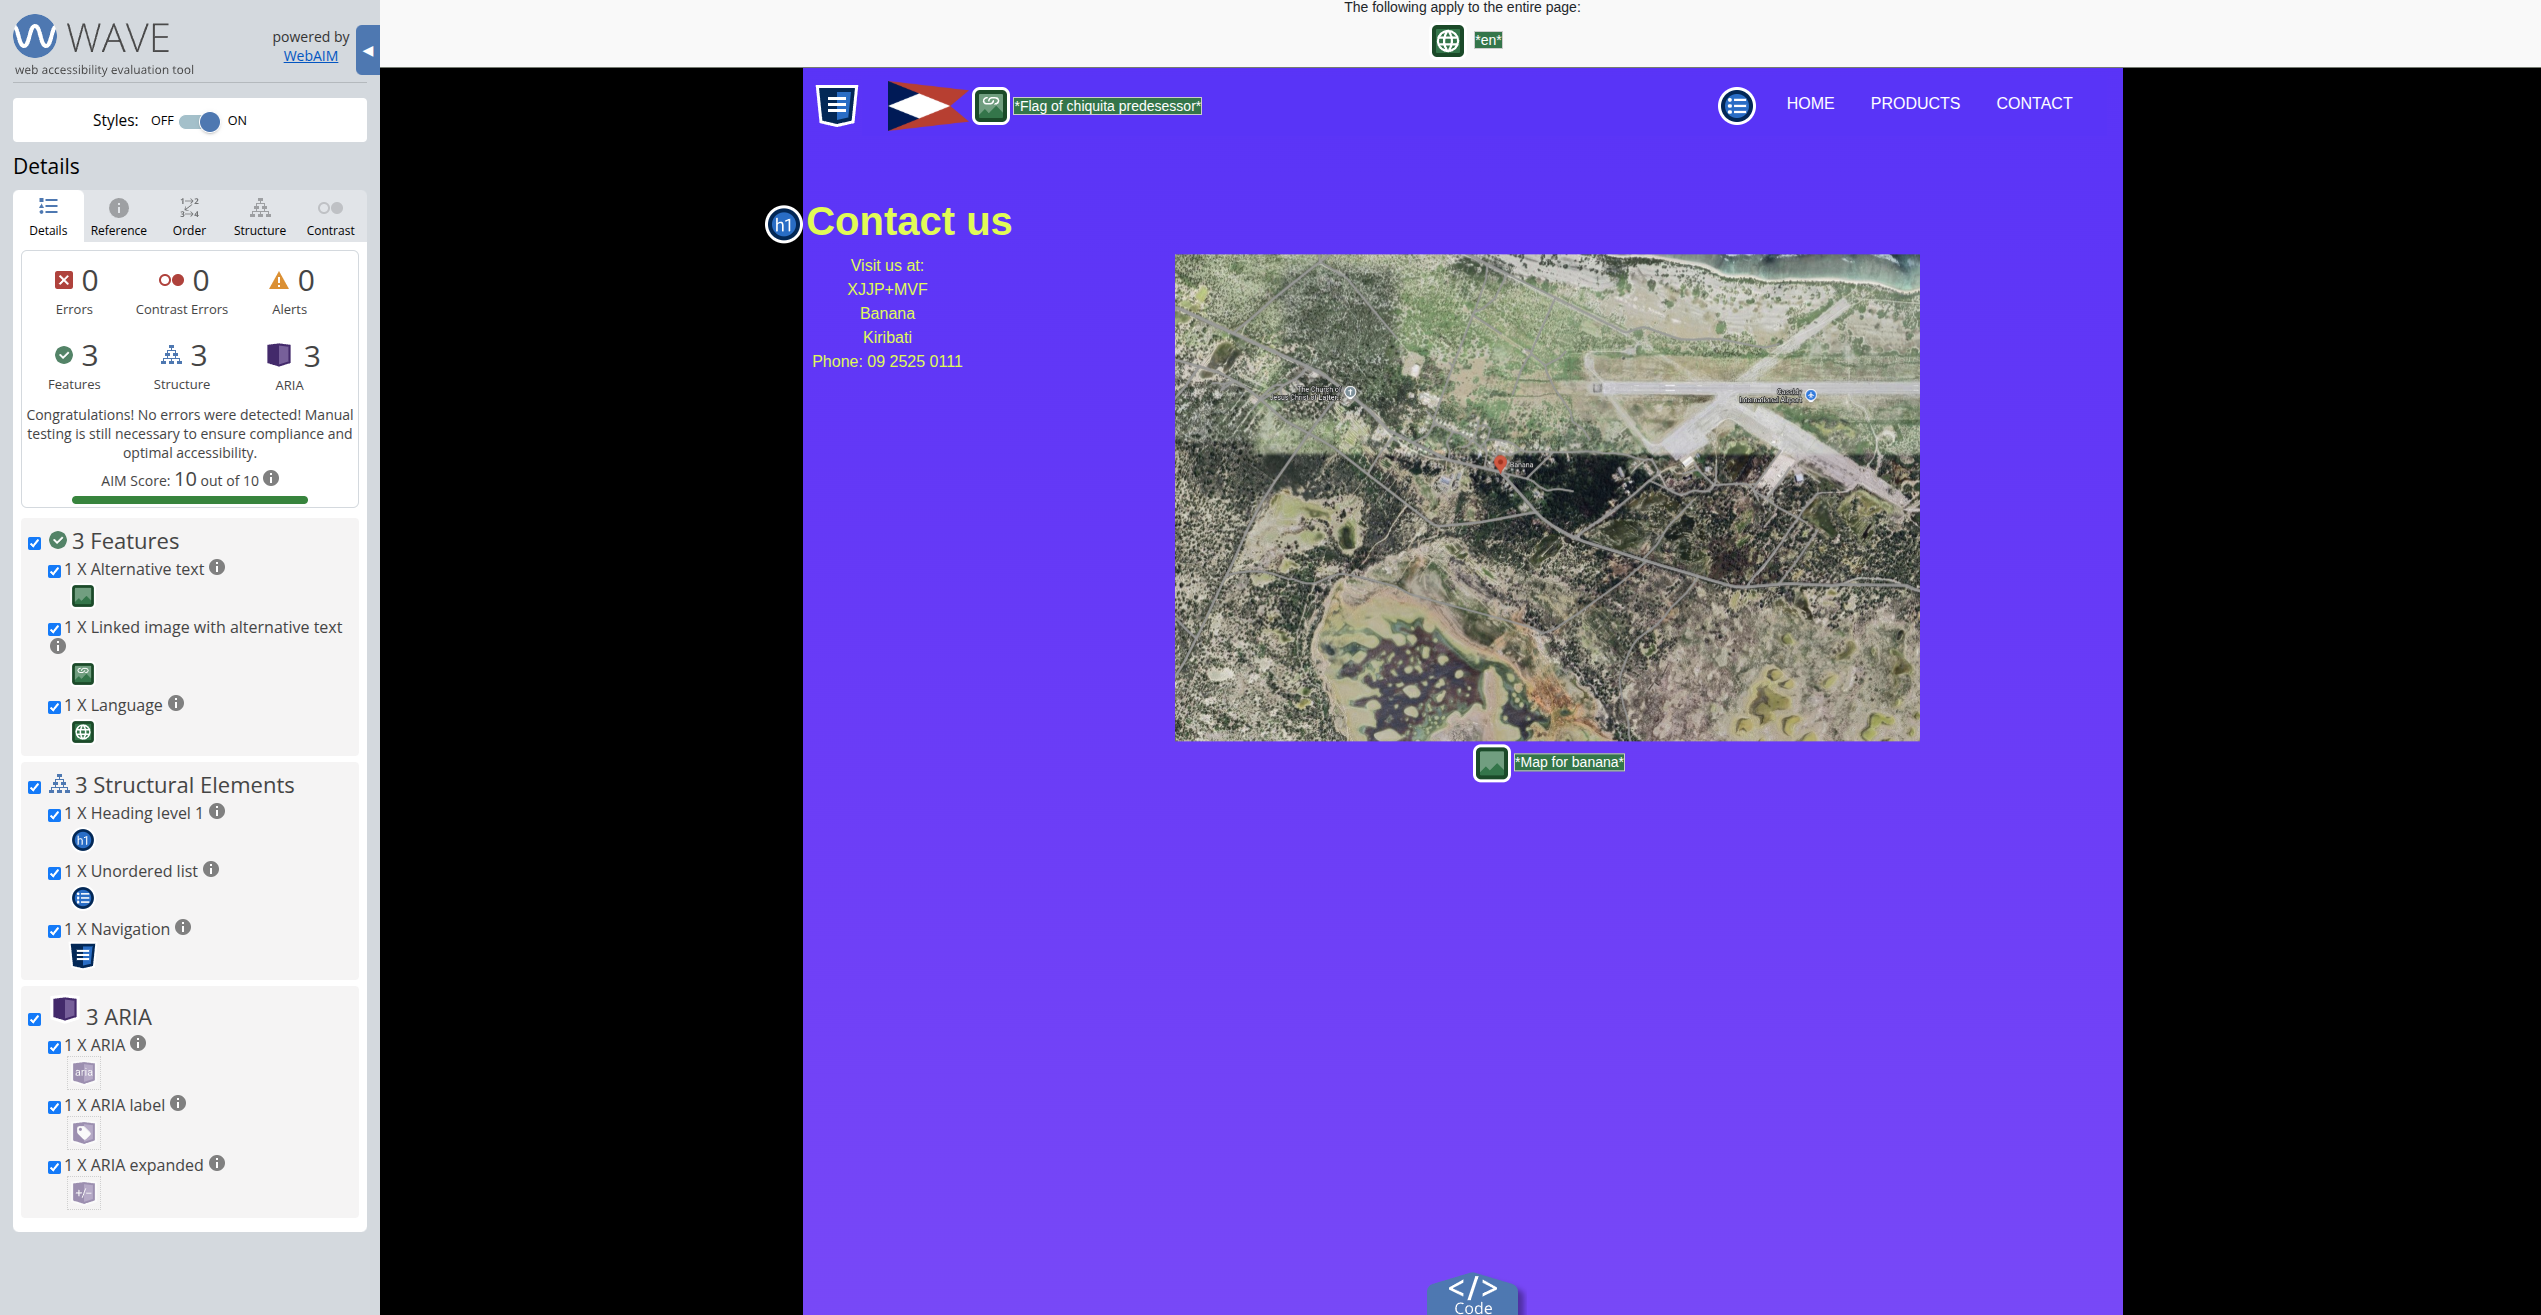
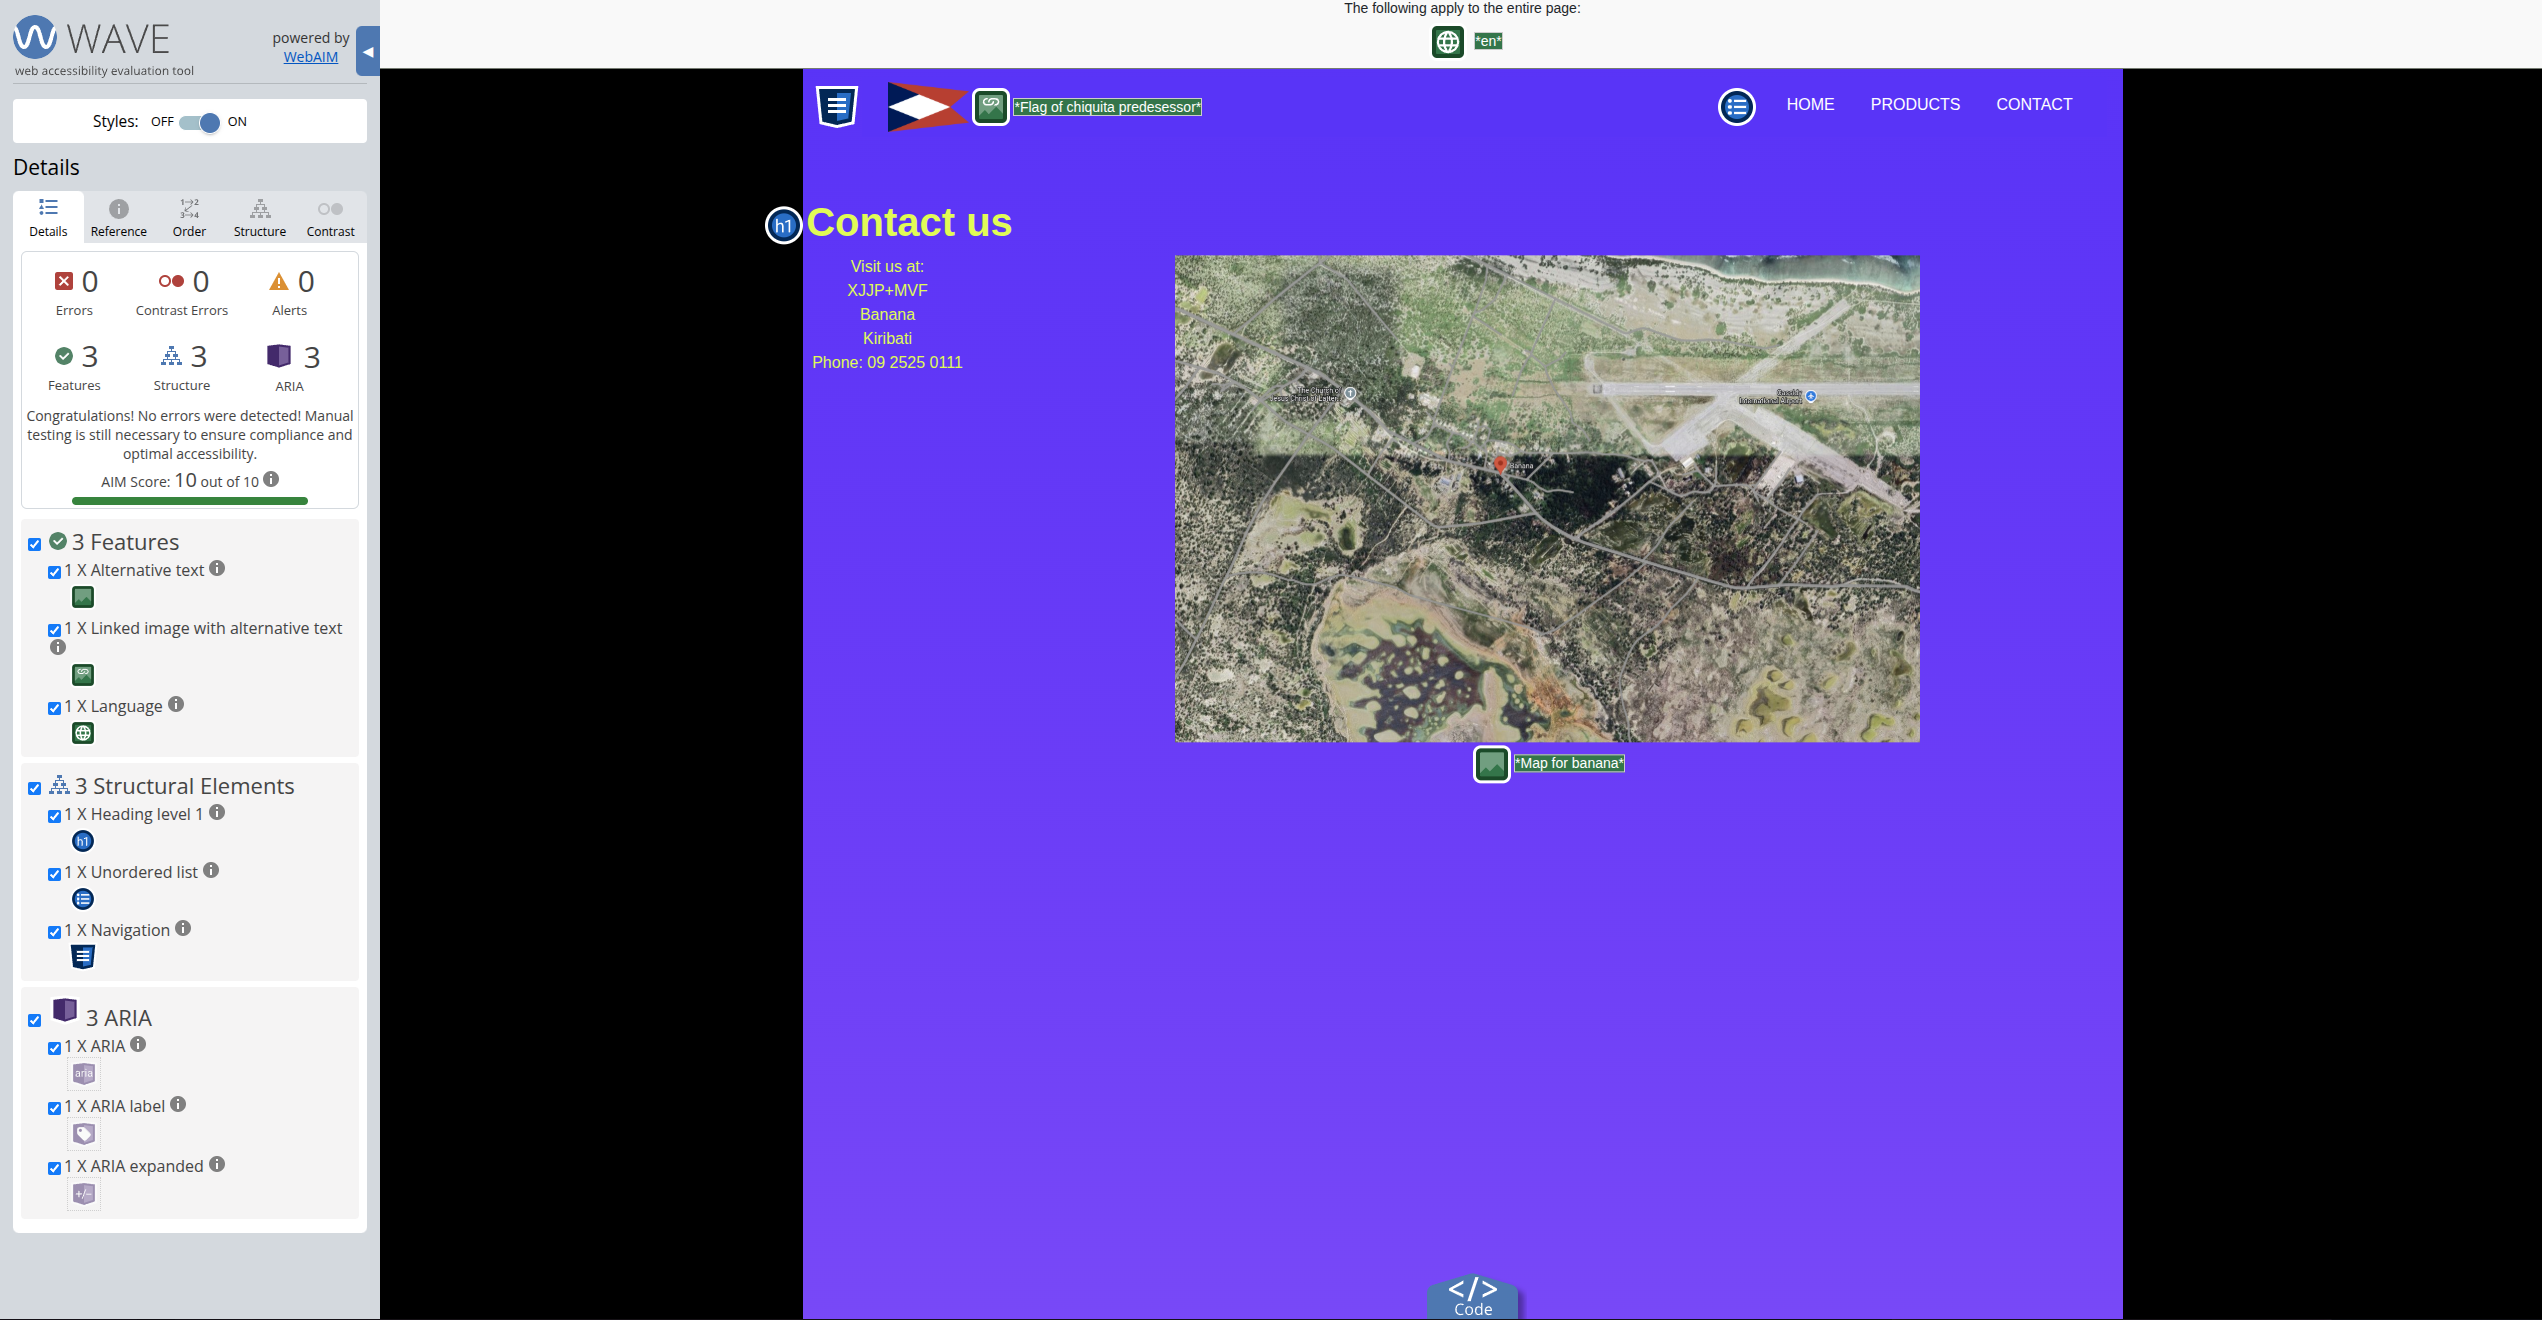
Added custom font and redid wave tests

diff --git a/html_css_tehtava/contact.html b/html_css_tehtava/contact.html
@@ -3,10 +3,12 @@
 <head>
     <title>HTML ja CSS tehtävä</title>
     <meta charset="UTF-8">
+    <link rel="preconnect" href="https://fonts.googleapis.com">
+    <link rel="preconnect" href="https://fonts.gstatic.com" crossorigin>
+    <link href="https://fonts.googleapis.com/css2?family=Merriweather:ital,opsz,wght@0,18..144,300..900;1,18..144,300..900&display=swap" rel="stylesheet">
     <link href="https://cdn.jsdelivr.net/npm/bootstrap@5.3.3/dist/css/bootstrap.min.css" rel="stylesheet" integrity="sha384-QWTKZyjpPEjISv5WaRU9OFeRpok6YctnYmDr5pNlyT2bRjXh0JMhjY6hW+ALEwIH" crossorigin="anonymous">
     <link rel="stylesheet" href="includes/style.css">
     <meta name="viewport" content="width=device-width, initial-scale=1.0">
-    
 </head>
 
 <body>

diff --git a/html_css_tehtava/index.html b/html_css_tehtava/index.html
@@ -3,6 +3,9 @@
 <head>
     <title>HTML ja CSS tehtävä</title>
     <meta charset="UTF-8">
+    <link rel="preconnect" href="https://fonts.googleapis.com">
+    <link rel="preconnect" href="https://fonts.gstatic.com" crossorigin>
+    <link href="https://fonts.googleapis.com/css2?family=Merriweather:ital,opsz,wght@0,18..144,300..900;1,18..144,300..900&display=swap" rel="stylesheet">
     <link href="https://cdn.jsdelivr.net/npm/bootstrap@5.3.3/dist/css/bootstrap.min.css" rel="stylesheet" integrity="sha384-QWTKZyjpPEjISv5WaRU9OFeRpok6YctnYmDr5pNlyT2bRjXh0JMhjY6hW+ALEwIH" crossorigin="anonymous">
     <link rel="stylesheet" href="includes/style.css">
     <meta name="viewport" content="width=device-width, initial-scale=1.0">

diff --git a/html_css_tehtava/includes/style.css b/html_css_tehtava/includes/style.css
@@ -1,7 +1,7 @@
 body {
     margin: 0;
     padding: 0;
-    font-family: Arial, Helvetica, sans-serif;
+    font-family: "Merriweather", sans-serif;
 	background-color: rgb(0, 0, 0);
 }
 
